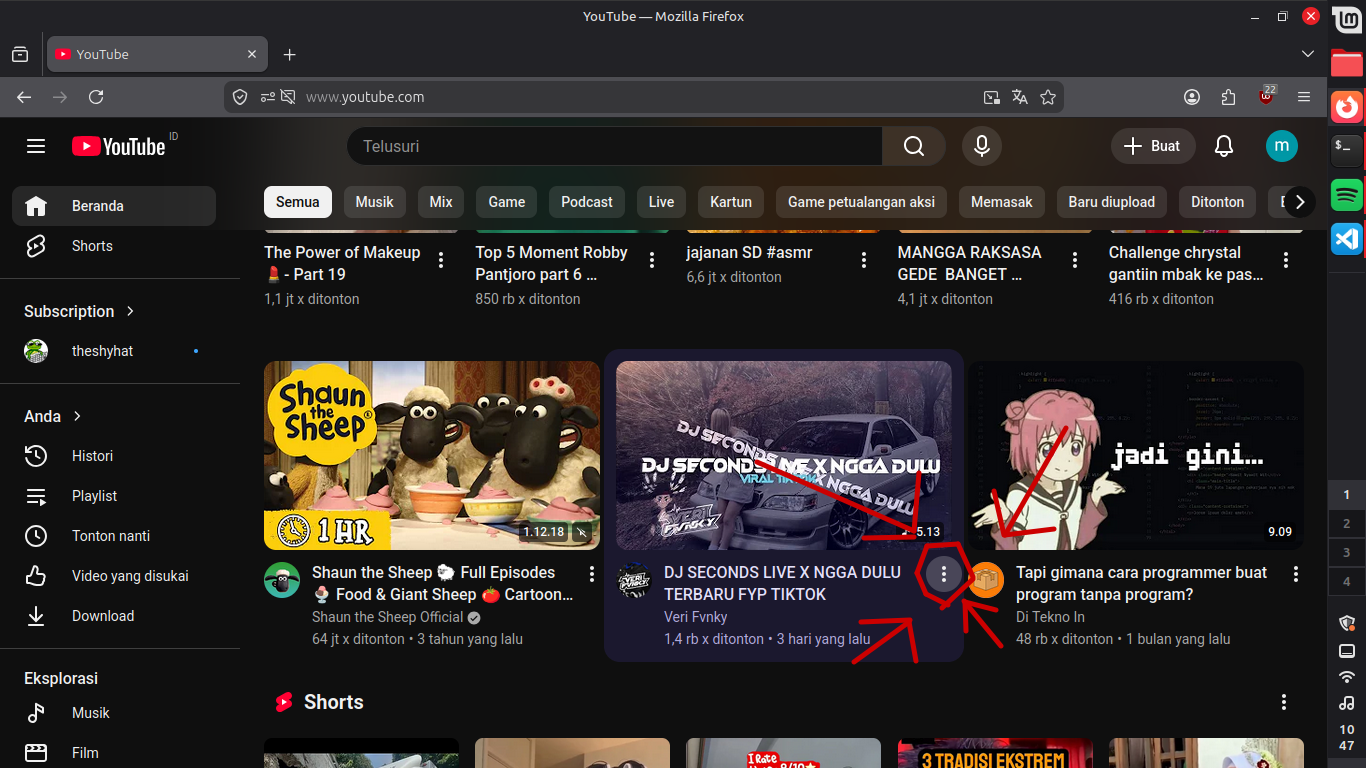
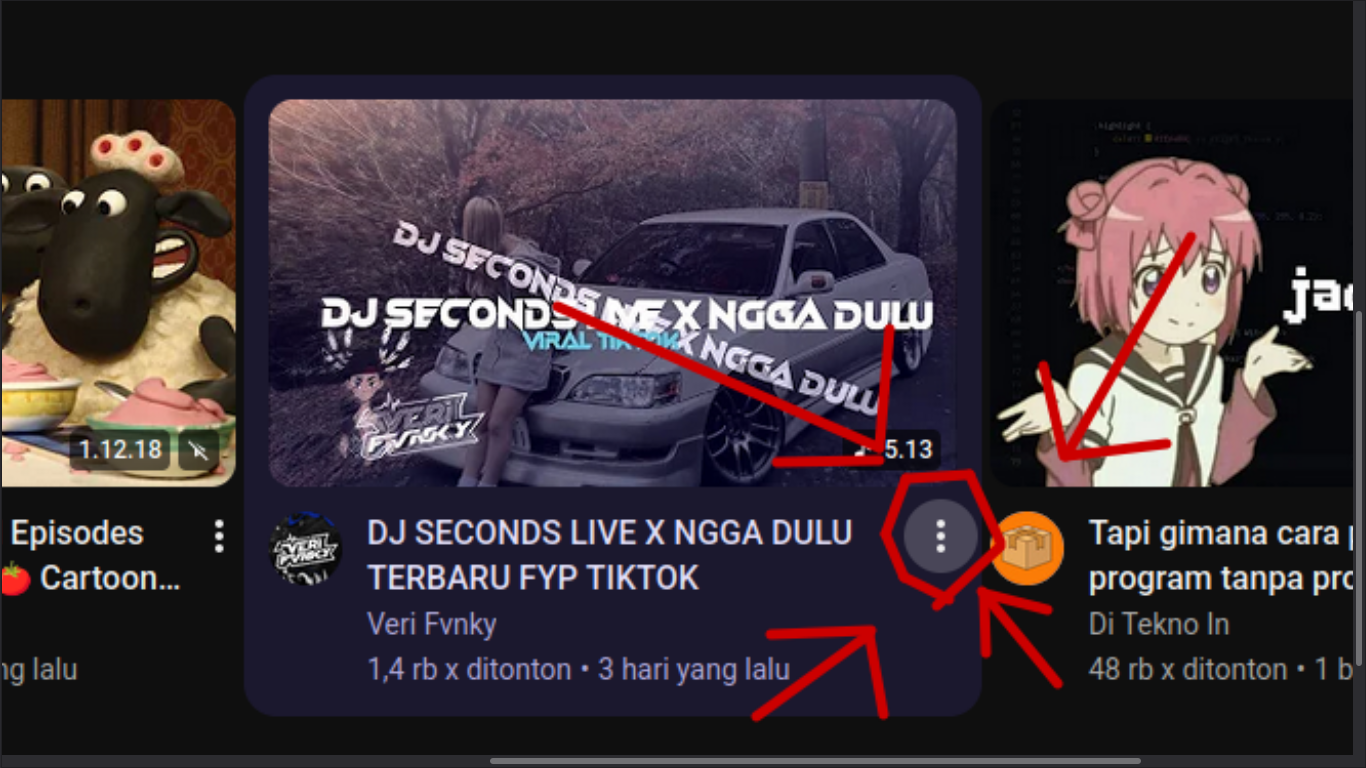
membuat tampilan jadi bagus sedikit

diff --git a/pr.css b/pr.css
@@ -1,15 +1,24 @@
+@import url('https://fonts.googleapis.com/css2?family=Inter:wght@400;500;600;700&display=swap');
 *{
     padding:0;
     margin:0;
+    scroll-behavior:smooth;
+    font-family:'Inter',sans-serif;
 }
 .menu{
 display:flex;
 justify-content:space-between;
 align-items:center;
-background-color:transparent;
+background:rgb(238, 230, 230);
+backdrop-filter:blur(10px);
+border-bottom:1px solid white;
+/* position:fixed;
+top:0;
+bottom:0; */
 width:100%;
 height:50px;
 flex-direction:row-reverse;
+/* z-index:100; */
 }
 
 .background{
